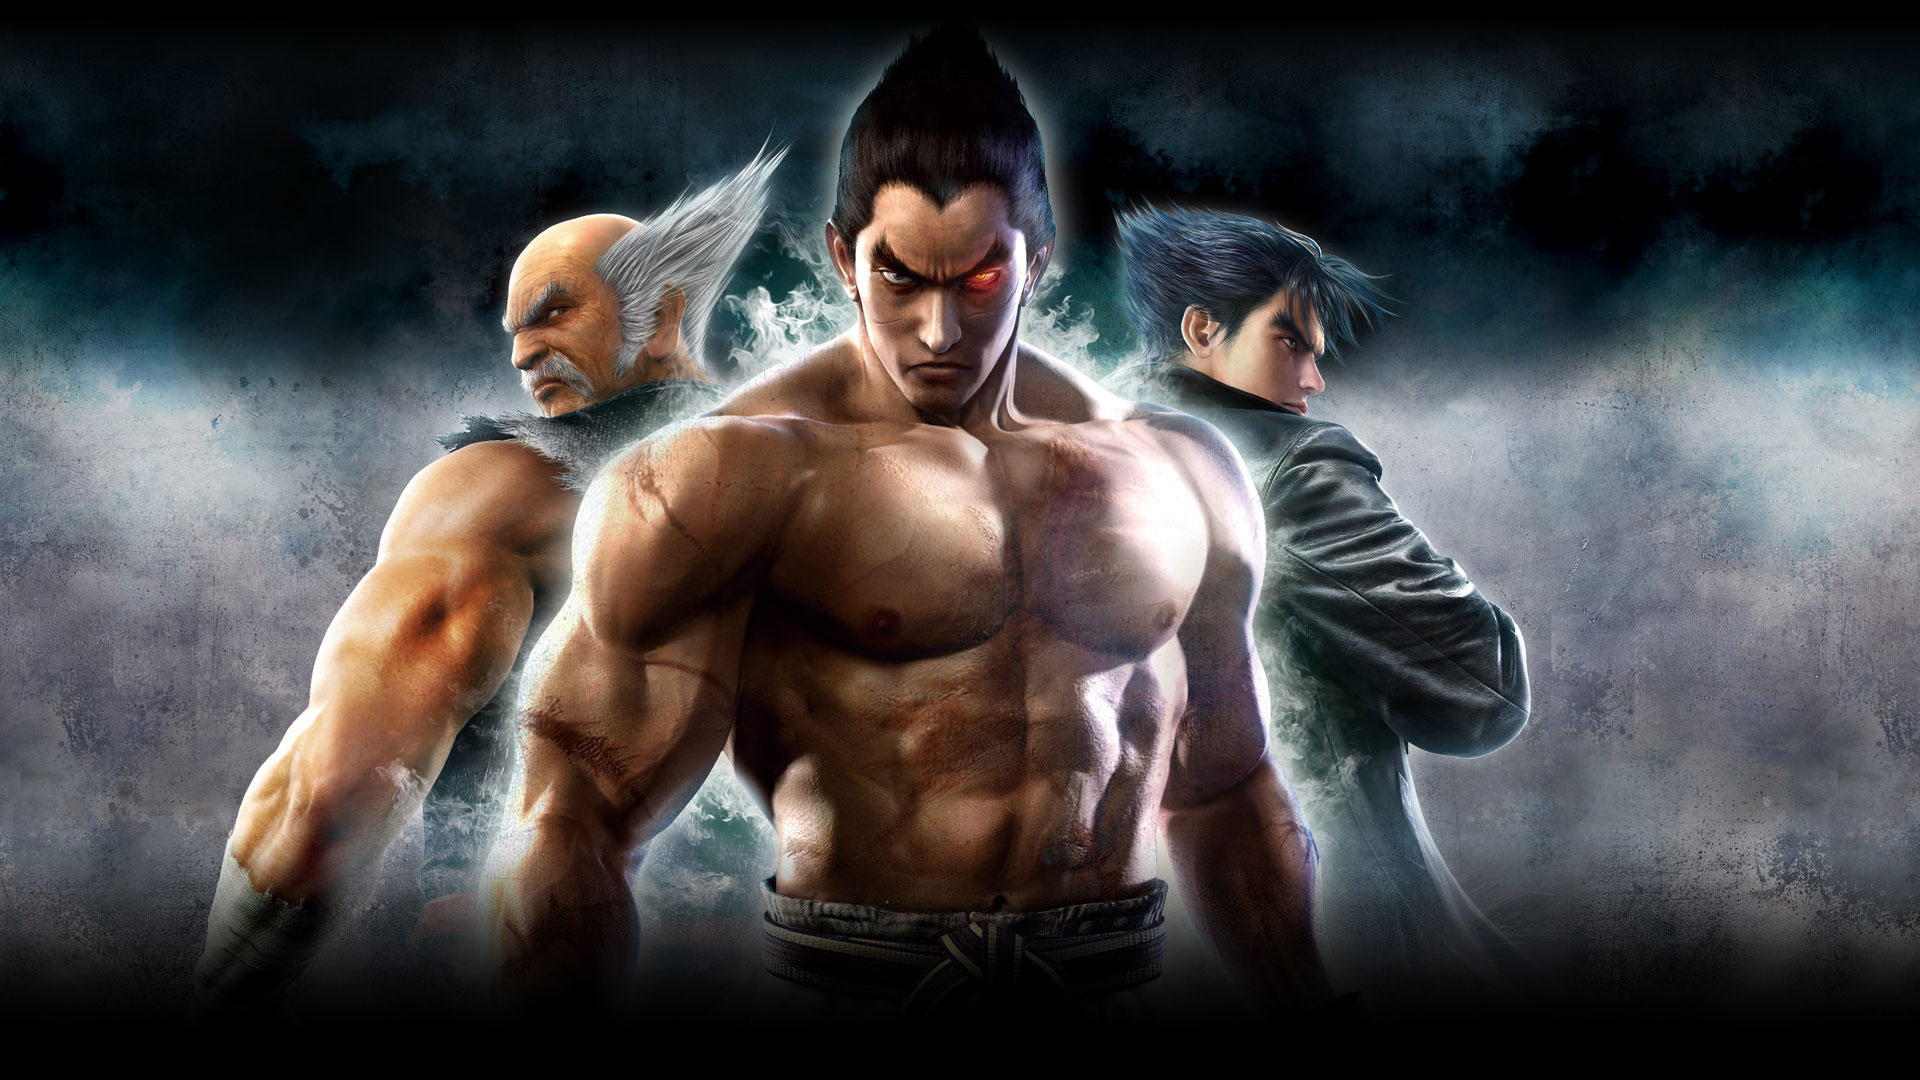
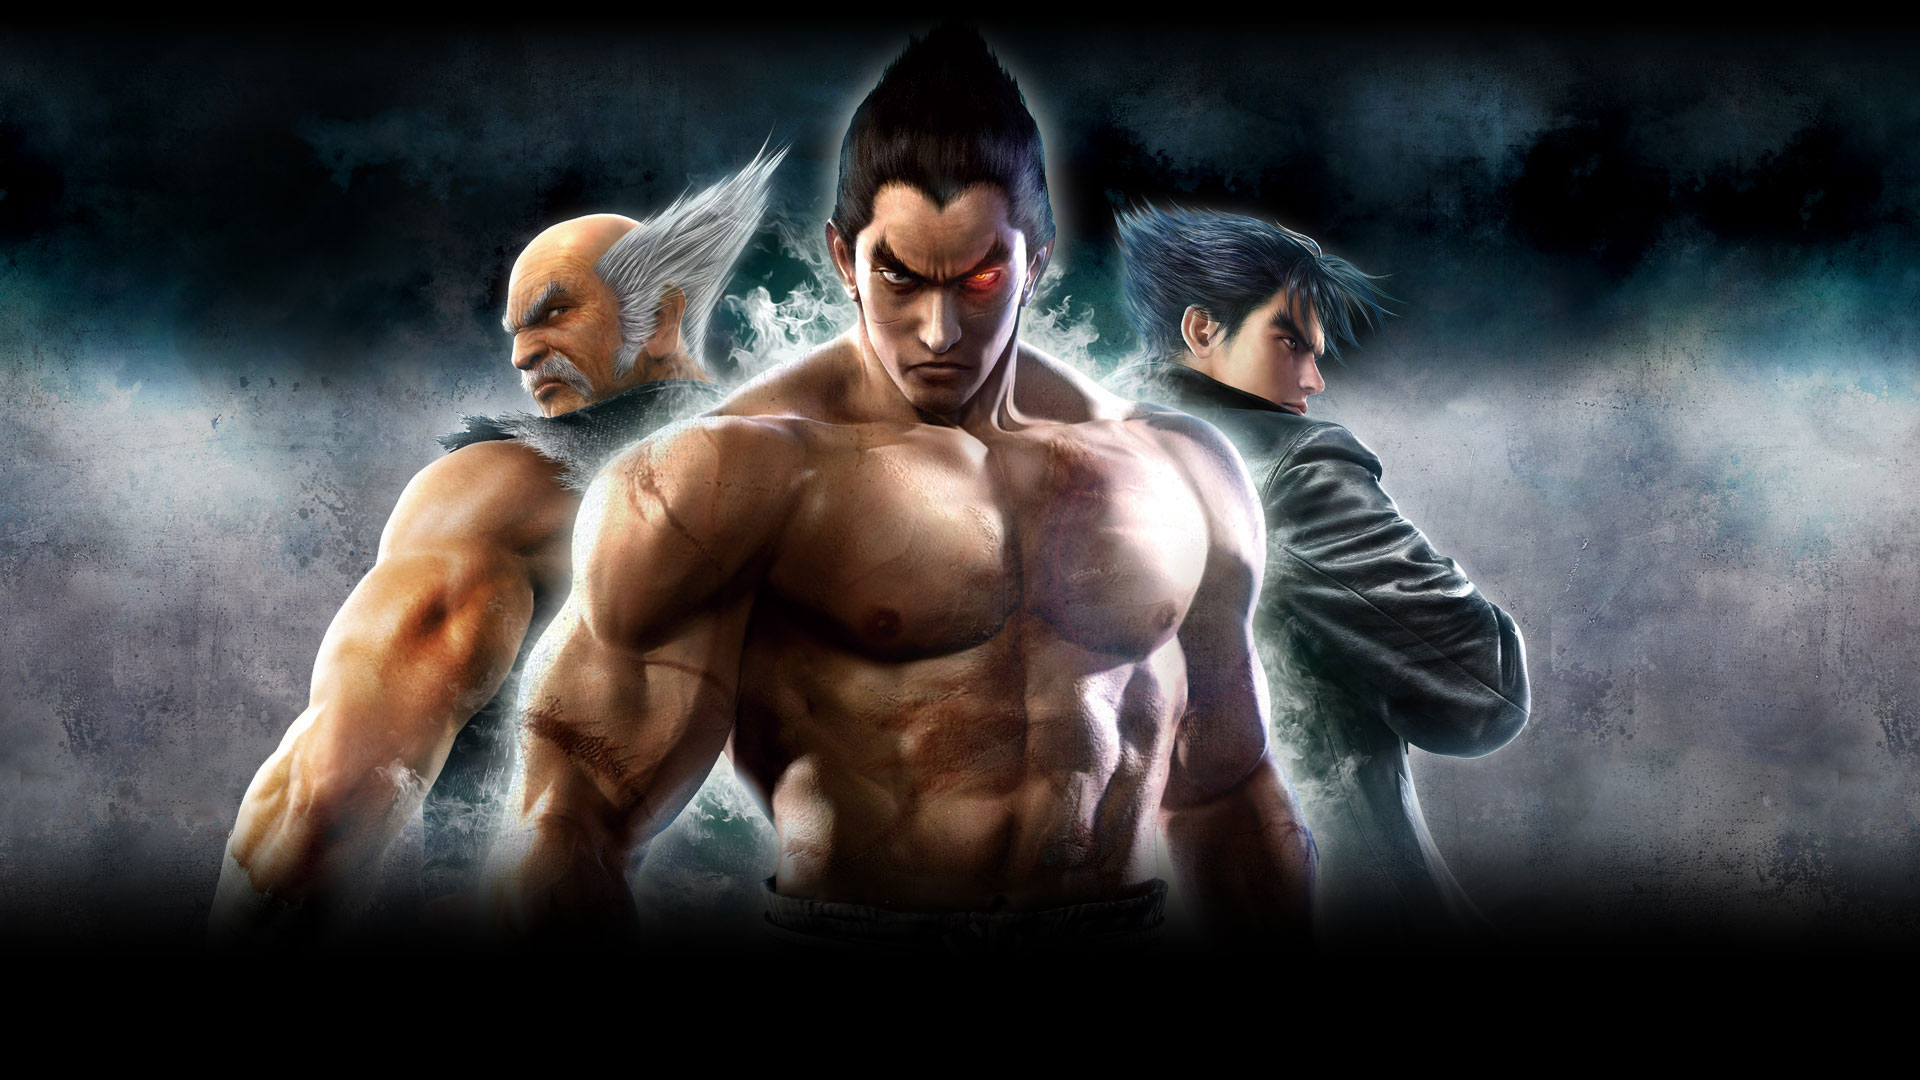
Changed Background Image to News Section

Changed region(s): [[0.0, 0.7333, 1.0, 0.9167]]

diff --git a/styles/styles.css b/styles/styles.css
@@ -1,322 +1,1 @@
-html, body {
-  background-color: #000000;
-  /* Fix for Google fonts colored White*/
-  -webkit-font-smoothing: antialiased;
-  -moz-font-smoothing: antialiased;
-  -o-font-smoothing: antialiased;
-  padding: 0;
-  margin: 0;
-  height: 100%;
-  width: 100%;
-  font-family: "Lato", sans-serif; }
-
-.container-fluid {
-  padding: 0;
-  margin: 0; }
-
-.inlineBlock {
-  display: inline-block; }
-
-.noMargPad {
-  margin: 0;
-  padding: 0; }
-
-.parent {
-  position: absolute;
-  width: 100%;
-  height: 100%;
-  padding: 0;
-  margin: 0;
-  border: 0; }
-
-.section {
-  width: 100%;
-  height: 100%;
-  padding: 0;
-  margin: 0;
-  border: 0;
-  position: relative; }
-
-.screen1 {
-  -webkit-animation: fadein 3s;
-  -moz-animation: fadein 3s;
-  -ms-animation: fadein 3s;
-  -o-animation: fadein 3s;
-  animation: fadein 3s;
-  background: url("../images/tekken_wallpapers.jpg") no-repeat center center;
-  background-attachment: cover; }
-
-.screen2 {
-  background: url("../images/tekken-2-yoshimitsu.jpg") no-repeat center center;
-  background-attachment: cover !important; }
-
-.screen3 {
-  background: url("../images/tekken3.jpg") no-repeat center center;
-  background-attachment: cover; }
-
-.centerLogo {
-  position: absolute;
-  top: 50%;
-  left: 50%;
-  max-width: 400px;
-  max-height: 295px;
-  margin-top: -150px;
-  margin-left: -200px;
-  -moz-filter: drop-shadow(5px 5px 9px #ffffff);
-  -ms-filter: drop-shadow(5px 5px 9px #ffffff);
-  -webkit-filter: drop-shadow(5px 5px 9px #ffffff);
-  -webkit-filter: drop-shadow(5px 5px 9px #ffffff);
-  filter: drop-shadow(5px 5px 9px #ffffff); }
-
-iframe {
-  max-width: 100%; }
-
-.trailer1 {
-  display: inline-block;
-  margin: 10px; }
-
-.trailer2 {
-  display: inline-block;
-  margin: 10px; }
-
-.trailer3 {
-  display: inline-block;
-  margin: 10px; }
-
-.trailerReview1 {
-  display: inline-block;
-  margin: 10px; }
-
-/*Buttons*/
-button {
-  font-family: "Russo One", sans-serif; }
-
-.buttonArray {
-  position: absolute;
-  top: 50%;
-  left: 50%;
-  margin-left: -247px;
-  margin-top: 80px; }
-
-.btn {
-  background-color: #e22e13;
-  color: #ffffff;
-  letter-spacing: 1px;
-  font-size: 1.1em;
-  border-radius: 0; }
-
-.trailerButton:hover {
-  background-color: #b42e13; }
-
-btn:hover {
-  color: #aaa;
-  /*letter-spacing:1px;*/
-  text-decoration: none; }
-
-btn:active {
-  color: #aaa;
-  letter-spacing: 1px;
-  text-decoration: none; }
-
-btn:visited {
-  color: #ffffff;
-  letter-spacing: 1px;
-  text-decoration: none; }
-
-/*Buttons End*/
-/*Modal*/
-.modal {
-  text-align: center !important;
-  padding: 0 !important;
-  margin: 0; }
-
-.modal:before {
-  content: '';
-  display: inline-block;
-  height: 100%;
-  vertical-align: middle; }
-
-.modal-dialog {
-  display: inline-block;
-  vertical-align: middle;
-  padding: 0px;
-  margin: 0px; }
-
-.modal-content {
-  border: 0;
-  background-color: transparent;
-  -webkit-box-shadow: 0 5px 15px transparent;
-  -moz-box-shadow: 0 5px 15px transparent;
-  -o-box-shadow: 0 5px 15px transparent;
-  box-shadow: 0 5px 15px transparent;
-  margin: 0;
-  padding: 0; }
-
-.modal-header {
-  color: #ffffff;
-  border: 0; }
-
-.close {
-  color: #ffffff;
-  font-size: 1.5em;
-  opacity: 1;
-  margin-top: 10px; }
-
-.modal-backdrop {
-  background-color: #000000;
-  opacity: 0.7 !important; }
-
-.modal-body {
-  background-color: transparent;
-  box-shadow: 0;
-  padding: 0; }
-
-/*Modal End*/
-/*Navbar*/
-.navbar {
-  min-height: 0 !important;
-  z-index: 400;
-  line-height: 50px; }
-
-.systemLogo {
-  width: 100px;
-  margin-right: 18px;
-  display: inline-block; }
-
-.ps3 {
-  width: 70px !important;
-  margin-right: 18px;
-  display: inline-block; }
-
-.navbar > button {
-  float: right;
-  background-color: #444444; }
-
-.navbar-header {
-  float: none;
-  background-color: rgba(40, 40, 40, 0.75);
-  padding: 10px 30px 10px 30px; }
-
-.navbar-toggle {
-  display: block;
-  margin: 0;
-  padding: 0; }
-
-.navbar-collapse.collapse {
-  display: none !important; }
-
-.hamburgerText, .glyphicon-menu-hamburger {
-  font-size: 1.5em;
-  color: #ffffff; }
-
-.navbarLink, .nav > li > a, .nav > li > a:visited {
-  text-align: center;
-  background-color: #e22e13;
-  z-index: 30;
-  width: 300px;
-  border: 1px solid #444444;
-  color: #ffffff;
-  font-family: "Russo One", sans-serif;
-  font-size: 1.1em;
-  letter-spacing: 1px; }
-
-.nav > li > a:hover, .nav > li > a:active {
-  color: #444444;
-  background-color: #b42e13; }
-
-.navbarLogo {
-  max-width: 290px;
-  margin-right: 30px;
-  display: none; }
-
-/* Navbar End */
-/* News and Features */
-.spacer {
-  padding: 30px; }
-
-.news {
-  top: 100px;
-  background-color: rgba(34, 34, 34, 0.8);
-  color: #ffffff;
-  display: inline-block; }
-
-.features {
-  top: 100px;
-  color: #ffffff;
-  margin: 0;
-  padding: 0;
-  display: inline-block;
-  text-align: center; }
-
-.cosplayFeature {
-  width: 100%;
-  height: 300px;
-  background-color: #000000;
-  margin: 0;
-  padding: 0;
-  border-radius: 0px 0px 15px 15px;
-  text-align: center;
-  background-position: center;
-  background-image: url("images/cosplay/tekken_cosplay_1.jpg");
-  /*Default if no Javascript*/
-  border-left: solid 3px #e22e13;
-  border-bottom: solid 3px #e22e13;
-  border-right: solid 3px #e22e13; }
-
-.cosplayHeader, .featureHeader {
-  font-family: "Russo One", sans-serif;
-  background-color: #b42e13;
-  font-size: 1.5em;
-  letter-spacing: 1px;
-  padding: 5px 0 5px 0;
-  width: 100%; }
-
-.reviewFeature {
-  width: 100%;
-  background-color: #000000;
-  margin: 0;
-  padding: 0;
-  border-radius: 0px 0px 15px 15px;
-  text-align: center;
-  border-left: solid 3px #b42e13;
-  border-bottom: solid 3px #b42e13;
-  border-right: solid 3px #b42e13; }
-
-.reviewLink, .reviewLink > a .reviewLink:visited {
-  text-align: center;
-  background-color: #e22e13;
-  z-index: 30;
-  width: 100%;
-  color: #ffffff;
-  font-family: "Russo One", sans-serif;
-  font-size: 1.1em;
-  letter-spacing: 1px;
-  border-top: 1px solid #444444; }
-
-.reviewLink:hover, .reviewLink:active {
-  background-color: #b42e13; }
-
-.curvedBottom {
-  border-radius: 0px 0px 12px 12px; }
-
-@keyframes fadein {
-  from {
-    opacity: 0; }
-  to {
-    opacity: 1; } }
-
-/* Firefox */
-@-moz-keyframes fadein {
-  from {
-    opacity: 0; }
-  to {
-    opacity: 1; } }
-
-/* Safari and Chrome */
-@-webkit-keyframes fadein {
-  from {
-    opacity: 0; }
-  to {
-    opacity: 1; } }
-
-/*# sourceMappingURL=styles.css.map */
+html,body{background-color:#000;-webkit-font-smoothing:antialiased;-moz-font-smoothing:antialiased;-o-font-smoothing:antialiased;padding:0;margin:0;height:100%;width:100%;font-family:"Lato",sans-serif}.container-fluid{padding:0;margin:0}.inlineBlock{display:inline-block}.noMargPad{margin:0;padding:0}.parent{position:absolute;width:100%;height:100%;padding:0;margin:0;border:0}.section{width:100%;height:100%;padding:0;margin:0;border:0;position:relative}.screen1{-webkit-animation:fadein 3s;-moz-animation:fadein 3s;-ms-animation:fadein 3s;-o-animation:fadein 3s;animation:fadein 3s;background:url("../images/tekken_wallpapers.jpg") no-repeat center center;background-attachment:cover}.screen2{background:url("../images/tekken_wallpaper2.jpg") no-repeat center center;background-attachment:cover !important}.screen3{background:url("../images/tekken3.jpg") no-repeat center center;background-attachment:cover}.centerLogo{position:absolute;top:50%;left:50%;max-width:400px;max-height:295px;margin-top:-150px;margin-left:-200px;-moz-filter:drop-shadow(5px 5px 9px #fff);-ms-filter:drop-shadow(5px 5px 9px #fff);-webkit-filter:drop-shadow(5px 5px 9px #fff);-webkit-filter:drop-shadow(5px 5px 9px #fff);filter:drop-shadow(5px 5px 9px #fff)}iframe{max-width:100%}.trailer1{display:inline-block;margin:10px}.trailer2{display:inline-block;margin:10px}.trailer3{display:inline-block;margin:10px}.trailerReview1{display:inline-block;margin:10px}button{font-family:"Russo One",sans-serif}.buttonArray{position:absolute;top:50%;left:50%;margin-left:-247px;margin-top:80px}.btn{background-color:#e22e13;color:#fff;letter-spacing:1px;font-size:1.1em;border-radius:0}.trailerButton:hover{background-color:#b42e13}btn:hover{color:#aaa;text-decoration:none}btn:active{color:#aaa;letter-spacing:1px;text-decoration:none}btn:visited{color:#fff;letter-spacing:1px;text-decoration:none}.modal{text-align:center !important;padding:0 !important;margin:0}.modal:before{content:'';display:inline-block;height:100%;vertical-align:middle}.modal-dialog{display:inline-block;vertical-align:middle;padding:0px;margin:0px}.modal-content{border:0;background-color:transparent;-webkit-box-shadow:0 5px 15px transparent;-moz-box-shadow:0 5px 15px transparent;-o-box-shadow:0 5px 15px transparent;box-shadow:0 5px 15px transparent;margin:0;padding:0}.modal-header{color:#fff;border:0}.close{color:#fff;font-size:1.5em;opacity:1;margin-top:10px}.modal-backdrop{background-color:#000;opacity:0.7 !important}.modal-body{background-color:transparent;box-shadow:0;padding:0}.navbar{min-height:0 !important;z-index:400;line-height:50px}.systemLogo{width:100px;margin-right:18px;display:inline-block}.ps3{width:70px !important;margin-right:18px;display:inline-block}.navbar>button{float:right;background-color:#444}.navbar-header{float:none;background-color:rgba(40,40,40,0.75);padding:10px 30px 10px 30px}.navbar-toggle{display:block;margin:0;padding:0}.navbar-collapse.collapse{display:none !important}.hamburgerText,.glyphicon-menu-hamburger{font-size:1.5em;color:#fff}.navbarLink,.nav>li>a,.nav>li>a:visited{text-align:center;background-color:#e22e13;z-index:30;width:300px;border:1px solid #444;color:#fff;font-family:"Russo One",sans-serif;font-size:1.1em;letter-spacing:1px}.nav>li>a:hover,.nav>li>a:active{color:#444;background-color:#b42e13}.navbarLogo{max-width:290px;margin-right:30px;display:none}.spacer{padding:30px}.news{top:100px;background-color:rgba(34,34,34,0.8);color:#fff;display:inline-block}.features{top:100px;color:#fff;margin:0;padding:0;display:inline-block;text-align:center}.cosplayFeature{width:100%;height:300px;background-color:#000;margin:0;padding:0;border-radius:0px 0px 15px 15px;text-align:center;background-position:center;background-image:url("images/cosplay/tekken_cosplay_1.jpg");border-left:solid 3px #e22e13;border-bottom:solid 3px #e22e13;border-right:solid 3px #e22e13}.cosplayHeader,.featureHeader{font-family:"Russo One",sans-serif;background-color:#b42e13;font-size:1.5em;letter-spacing:1px;padding:5px 0 5px 0;width:100%}.reviewFeature{width:100%;background-color:#000;margin:0;padding:0;border-radius:0px 0px 15px 15px;text-align:center;border-left:solid 3px #b42e13;border-bottom:solid 3px #b42e13;border-right:solid 3px #b42e13}.reviewLink,.reviewLink>a .reviewLink:visited{text-align:center;background-color:#e22e13;z-index:30;width:100%;color:#fff;font-family:"Russo One",sans-serif;font-size:1.1em;letter-spacing:1px;border-top:1px solid #444}.reviewLink:hover,.reviewLink:active{background-color:#b42e13}.curvedBottom{border-radius:0px 0px 12px 12px}@keyframes fadein{from{opacity:0}to{opacity:1}}@-moz-keyframes fadein{from{opacity:0}to{opacity:1}}@-webkit-keyframes fadein{from{opacity:0}to{opacity:1}}
